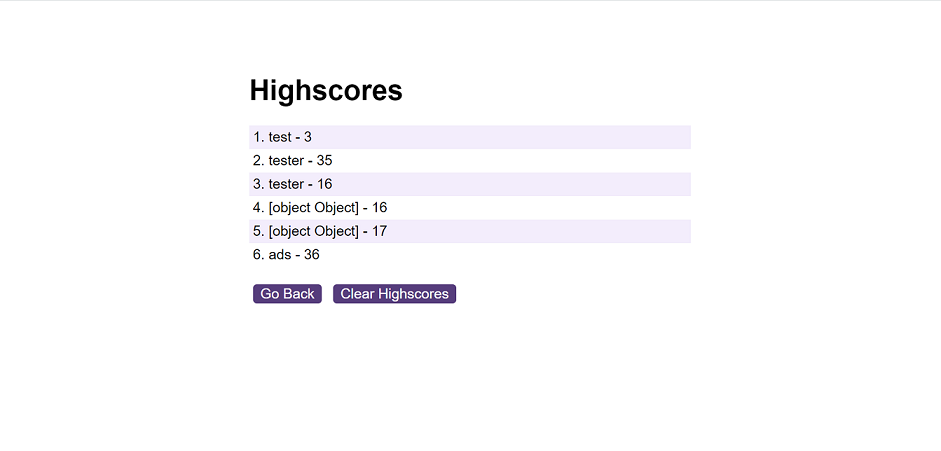
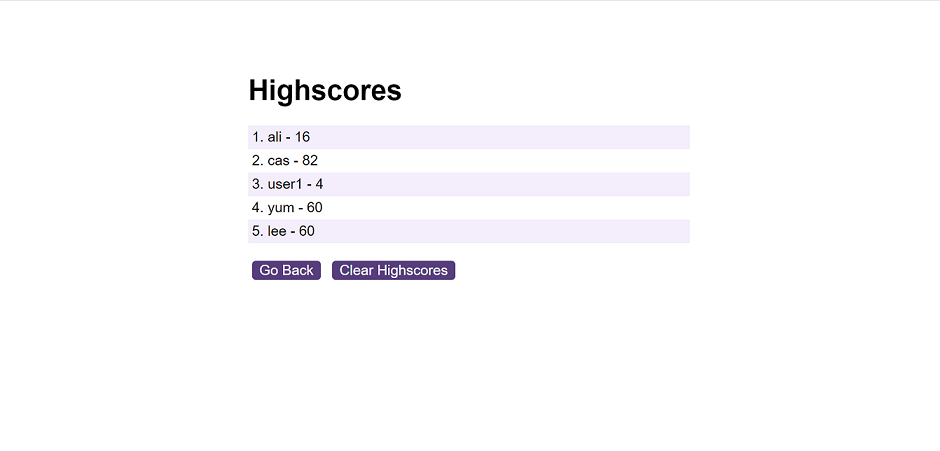
removed old comments from logic.js file, updated highscores screenshot in README file

diff --git a/assets/js/logic.js b/assets/js/logic.js
@@ -157,11 +157,3 @@ submitInitials.addEventListener("click", function(event) {
   // redirect to highscores page upon clicking on "submit"
   window.location.href = "./highscores.html";
 })
-
-
-
-
-
-
-// saves initials and score into highscores array in local storage
-
